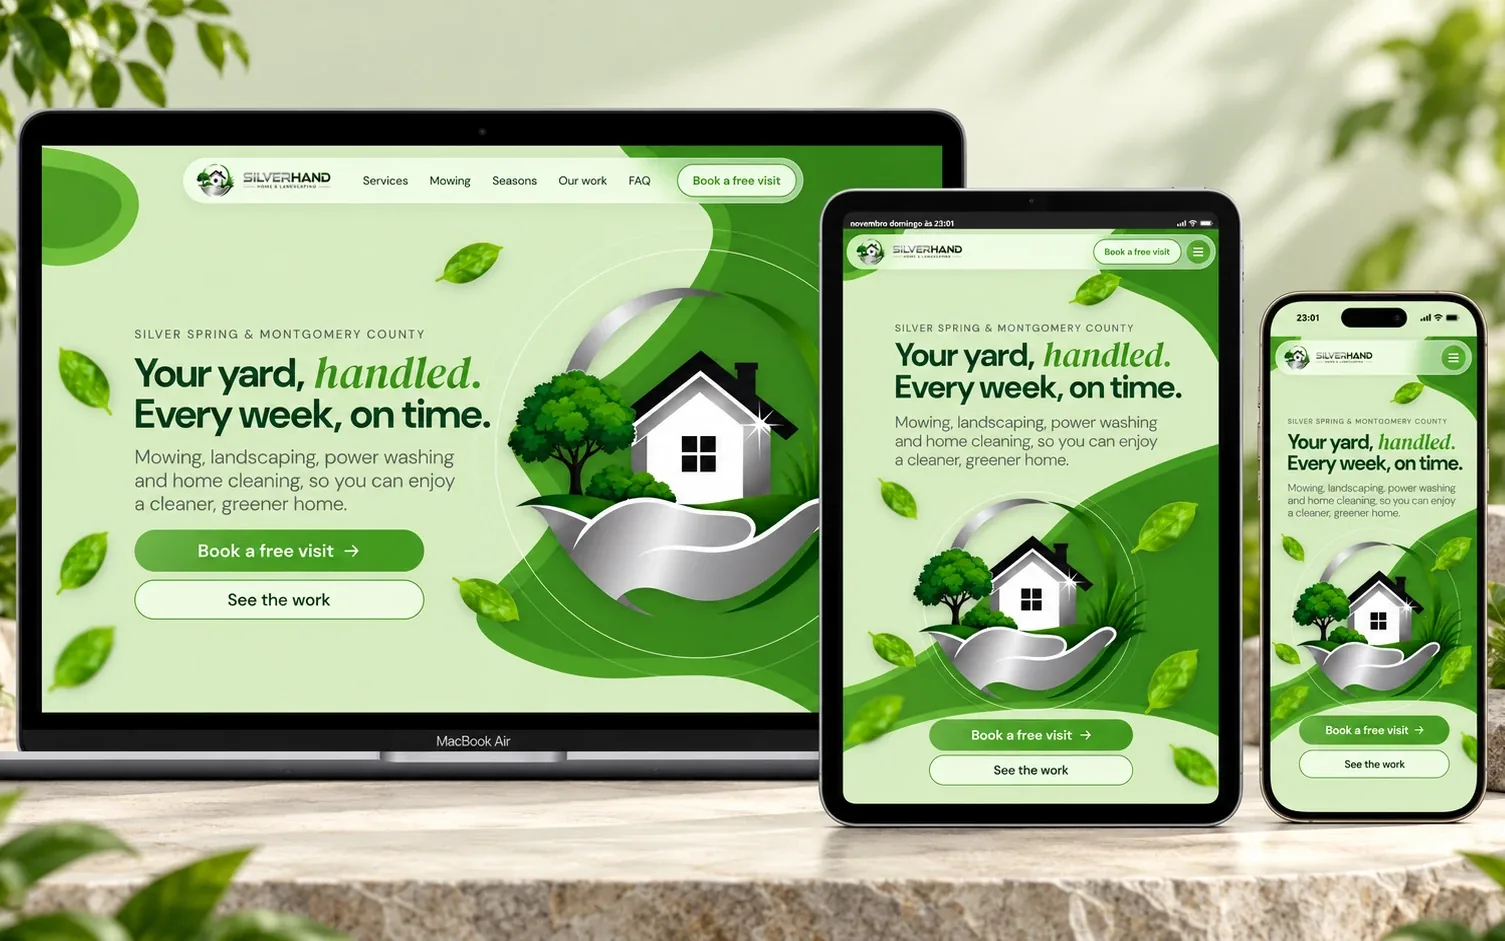
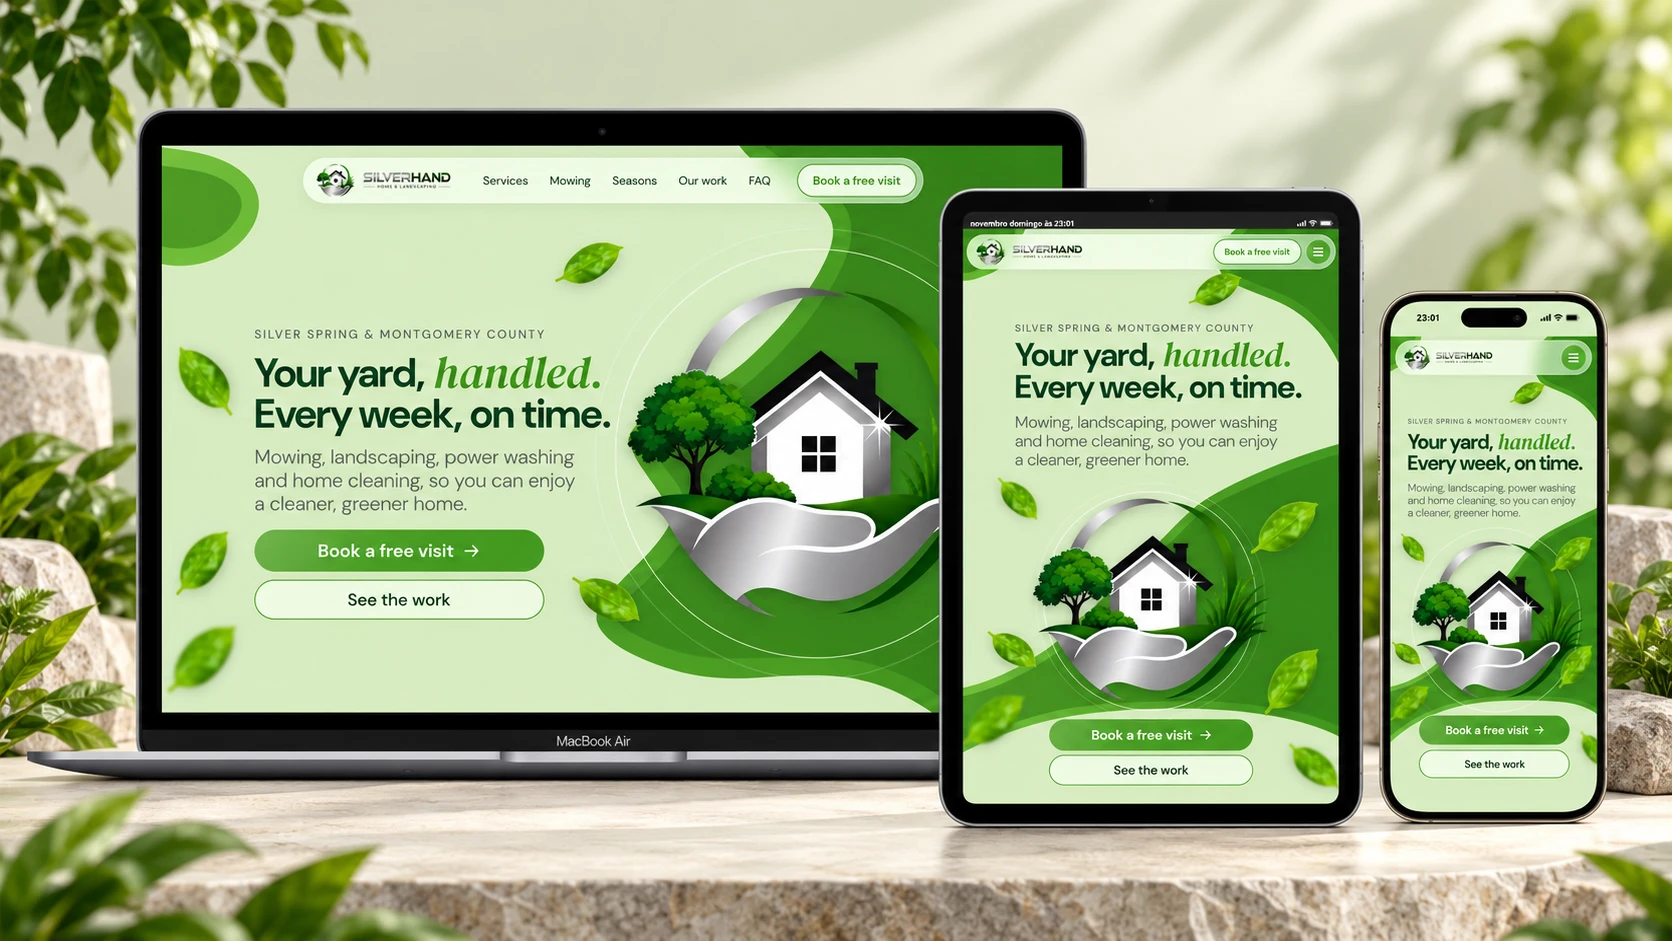
Capas do portfolio em 16:9 e Silver Hand com a imagem inteira
Claude-Session: https://claude.ai/code/session_011FRW9XuaWQUwsgUhSuGUzx

diff --git a/index.html b/index.html
@@ -462,7 +462,7 @@
      navegador. Some assim que uma <img> for colocada por cima. */
   .cartao-figura {
     position: relative;
-    aspect-ratio: 16 / 10;   /* mesma proporcao dos mockups (1586x992) */
+    aspect-ratio: 16 / 9;    /* proporcao dos mockups (16:9) */
     overflow: hidden;
     margin: 0;
     background:
@@ -491,11 +491,11 @@
     display: block;
     width: 100%;
     height: 100%;
-    object-fit: contain;   /* imagem inteira, sem corte nem zoom */
+    object-fit: cover;     /* preenche o quadro 16:9; capas fora disso perdem so as bordas */
   }
   /* Com capa real, o placeholder some por completo e o fundo passa a
      ser a cor da propria capa (--capa-fundo, definida inline no
-     <figure>), para que capas fora de 16:10 nao mostrem faixas. */
+     <figure>), para que capas fora de 16:9 nao mostrem faixas. */
   .cartao-figura:has(.cartao-imagem) {
     background: var(--capa-fundo, #eef4fa);
   }
@@ -1185,7 +1185,7 @@
                 width="1200" height="900" loading="lazy">
            dentro da <figure>; enquanto nao houver imagem, o
            placeholder do CSS aparece no lugar. Se a capa nao for
-           16:10, defina a cor de fundo dela no <figure> com
+           16:9, defina a cor de fundo dela no <figure> com
            style="--capa-fundo: #hex;" para as bordas se fundirem. O tipo de trabalho ja
            e dito pelos filtros e pelo texto do link, entao o cartao
            nao carrega mais etiqueta. -->
@@ -1195,7 +1195,7 @@
         <li class="cartao" data-categoria="projeto">
           <figure class="cartao-figura">
             <img class="cartao-imagem" src="assets/imagens/capas/silverhand-mockup-macbook-iphone.webp" alt="Mockup do site da Silver Hand - Home e Landscaping em MacBook, iPad e iPhone"
-                 width="1505" height="941" loading="lazy">
+                 width="1672" height="941" loading="lazy">
           </figure>
           <div class="cartao-corpo">
             <h3 class="cartao-titulo">Silver Hand - Home e Landscaping</h3>
